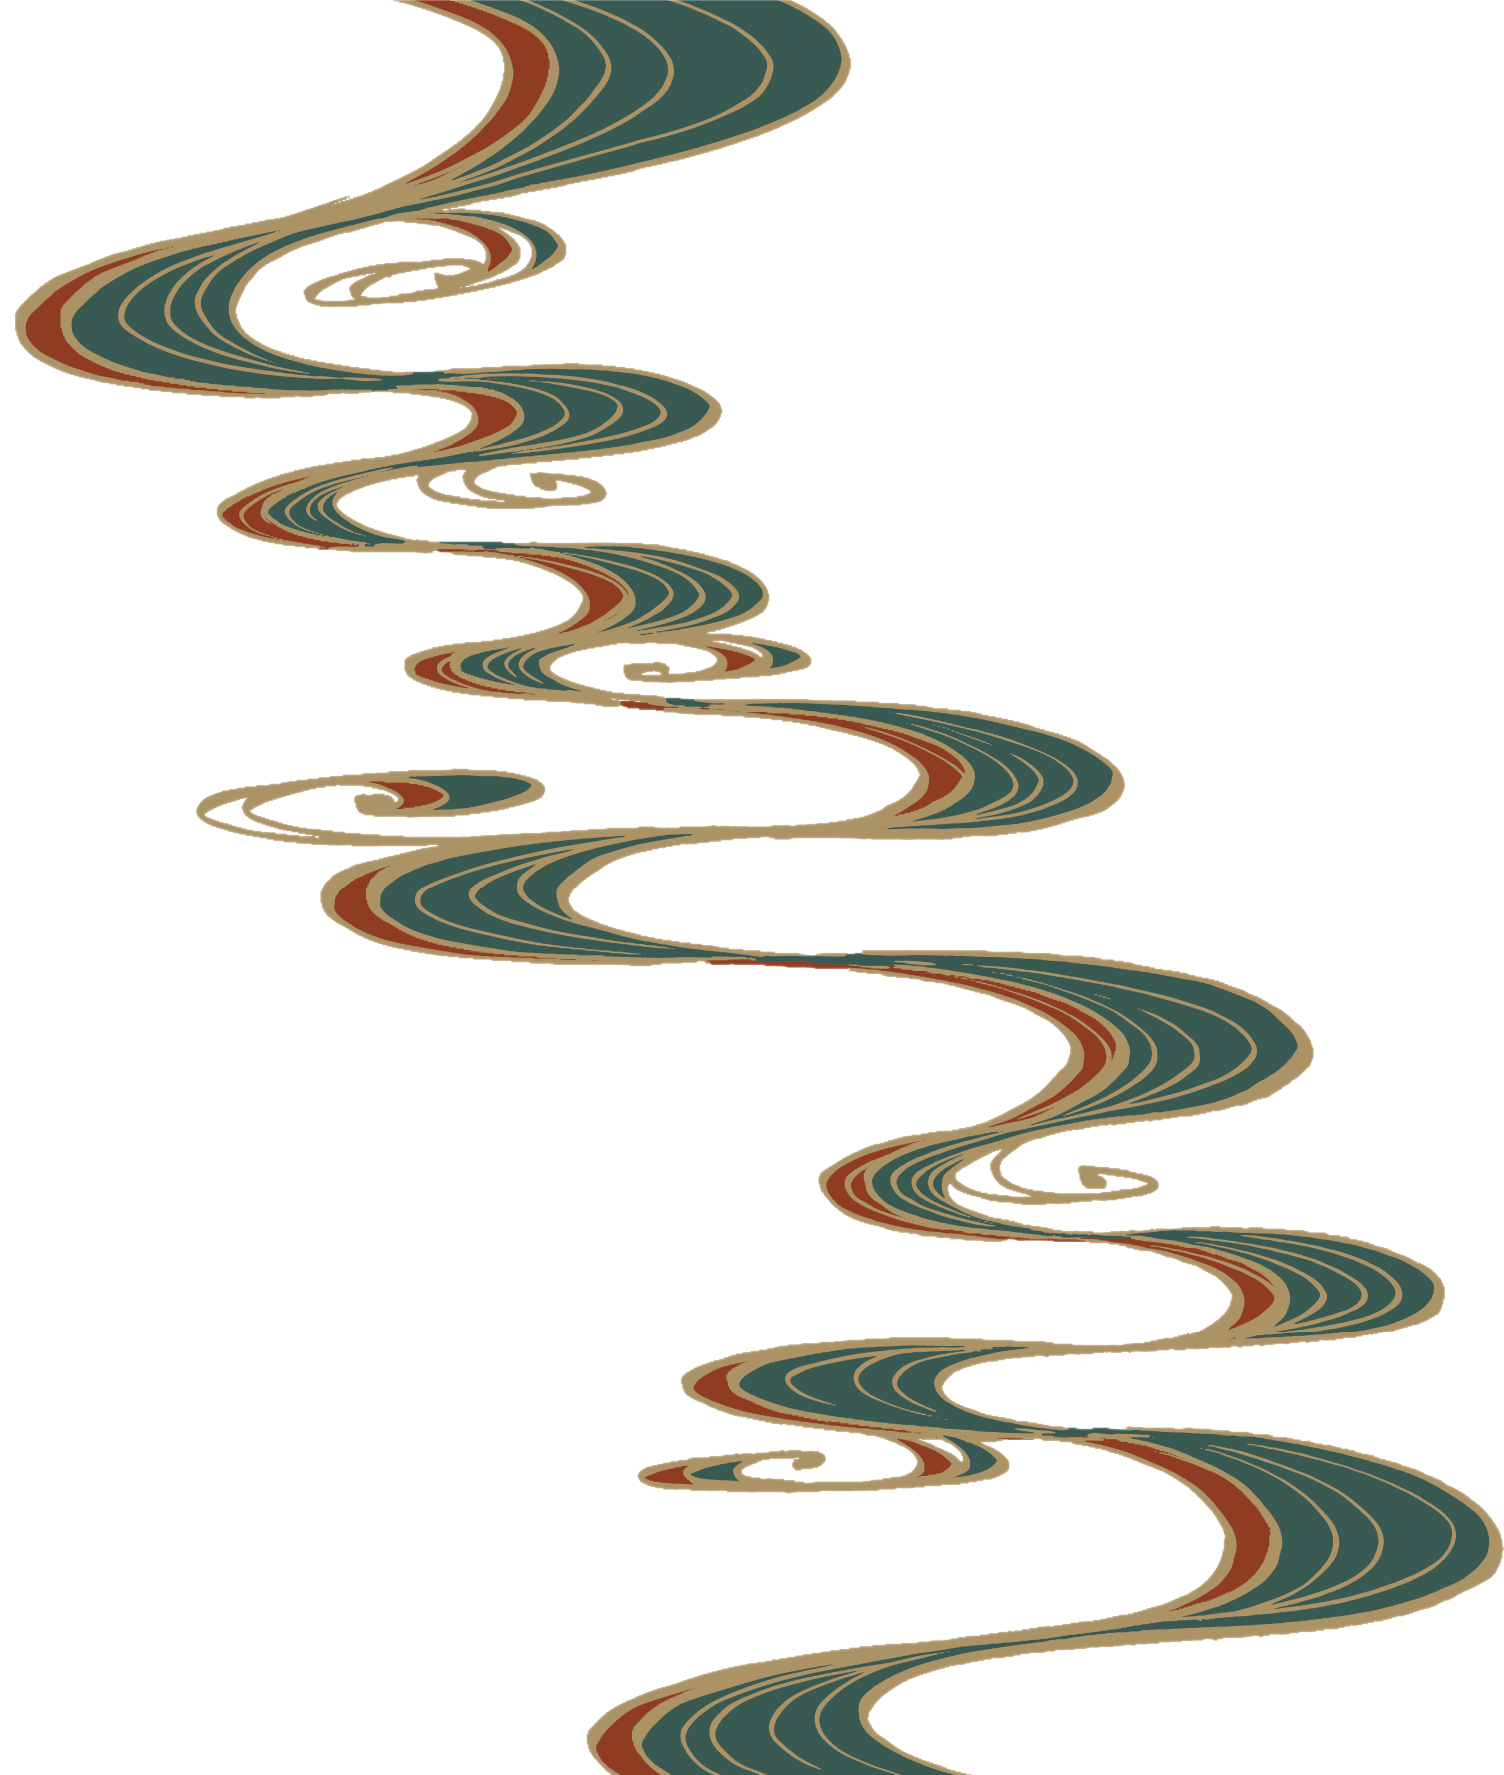
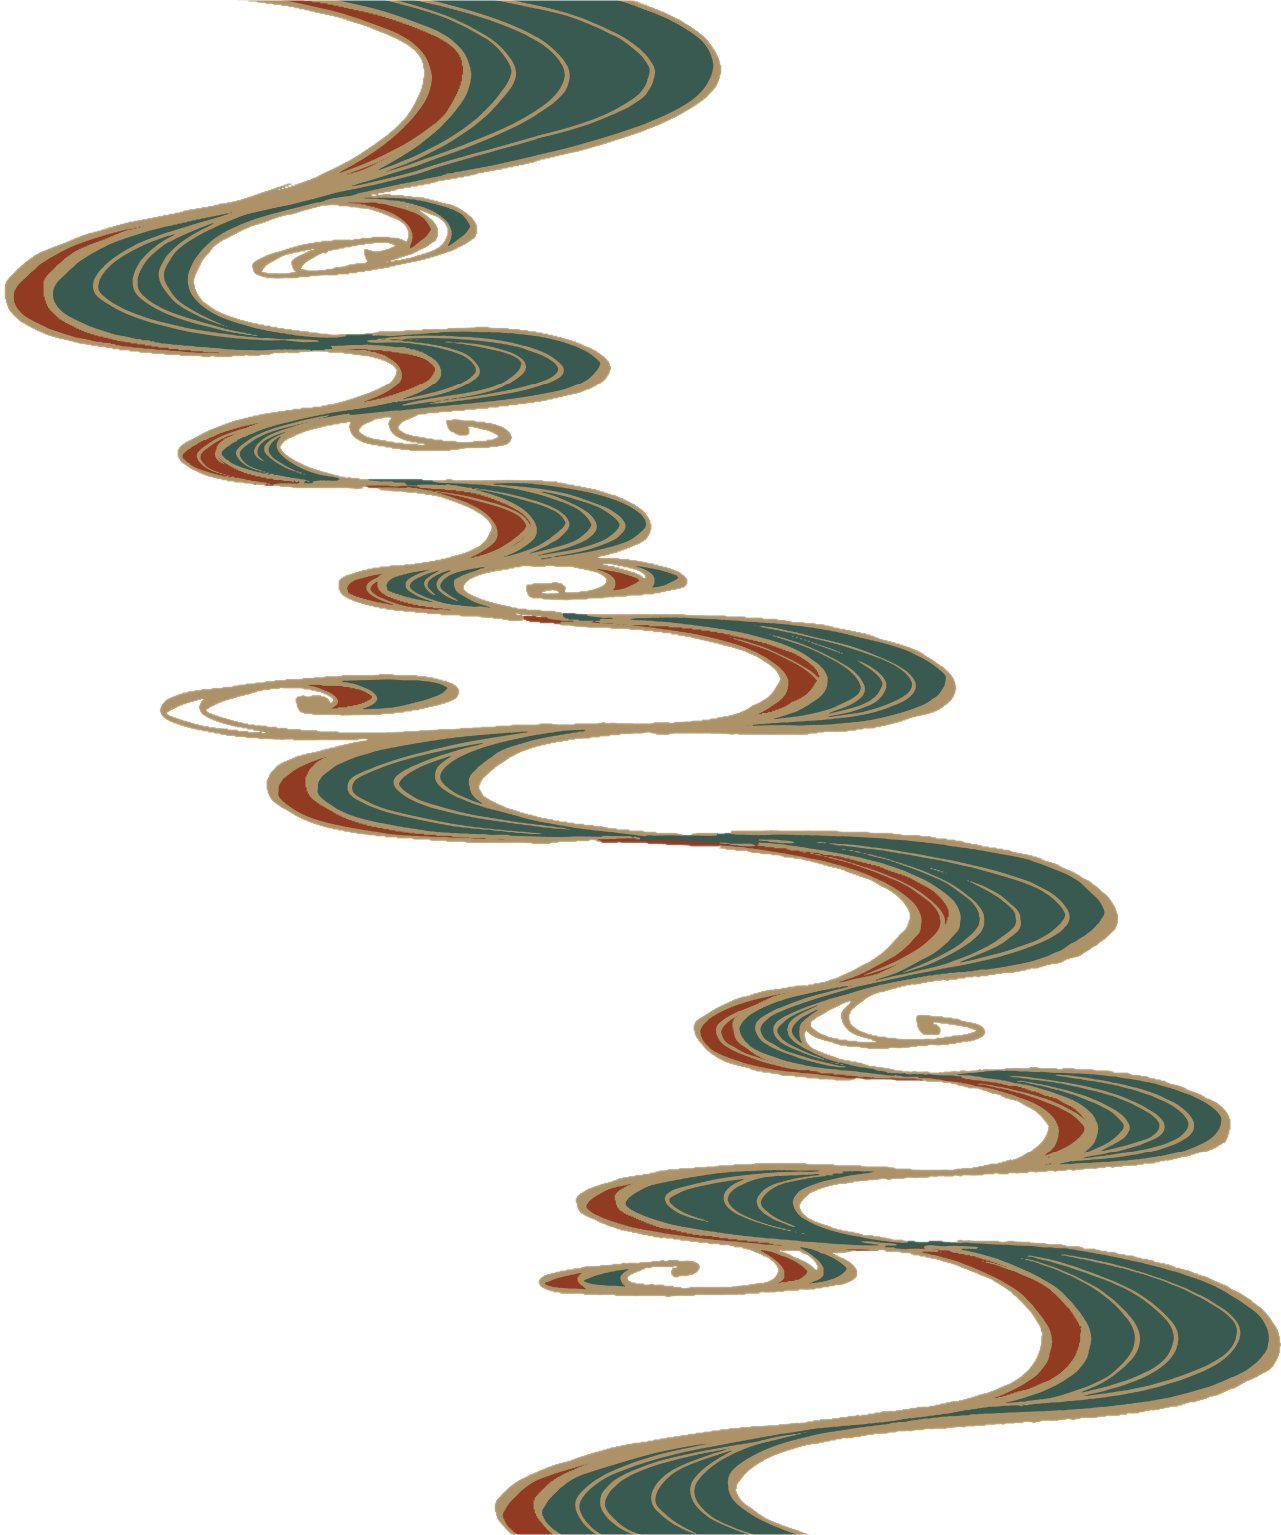
8/9-mv-windowsize-charenge

Changed region(s): [[0.0, 0.0, 1.0, 1.0]]

diff --git a/css/mobile_css.css b/css/mobile_css.css
@@ -240,16 +240,12 @@ header {
 /*iphone7,8等*/
 
 @media screen and (max-height: 178vw) {
-  .main-visual-green-wrap img {
+  .main-visual-green-wrap {
     width: 100%;
     height: 100%;
-    object-fit: contain;
-    object-position: 0 0;
   }
-  .main-visual-img {
-    height: 106vw;
-  }
-  .main-visual-back-wrap img {
+  .main-visual-green-wrap img {
+    width: 100%;
     height: 100%;
     object-fit: contain;
     object-position: 0 0;

diff --git a/index.html b/index.html
@@ -170,7 +170,7 @@
           <img src="images/main-visual-logo.svg" alt="メインビジュアルのロゴ" />
         </div>
         <div class="main-visual-green-wrap">
-          <img src="images/main-nami.svg" alt="メインビジュアル波" />
+          <img src="images/main-nami.png" alt="メインビジュアル波" />
         </div>
         <div class="main-visual-svg">
           <svg
